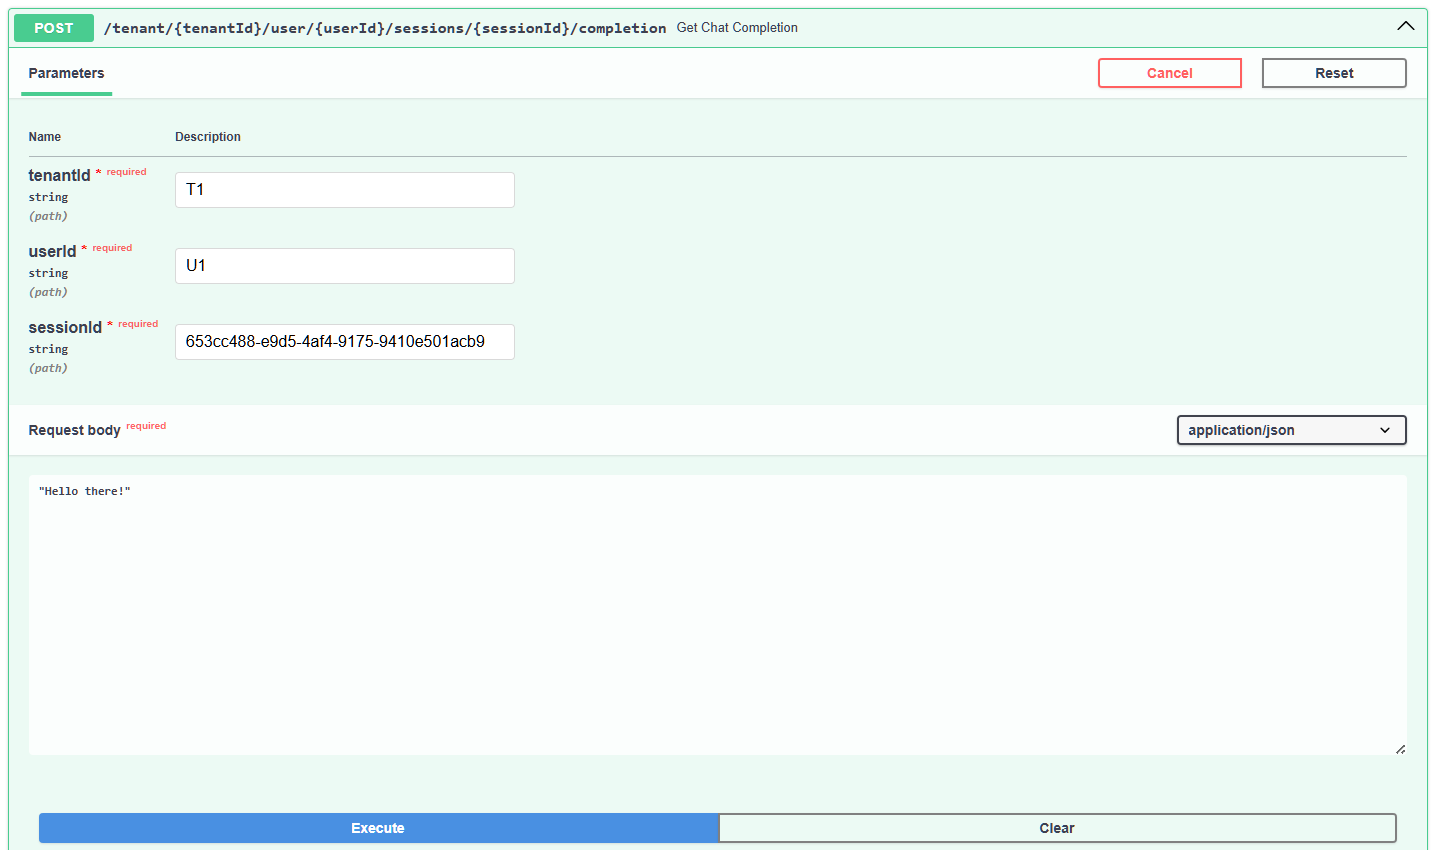
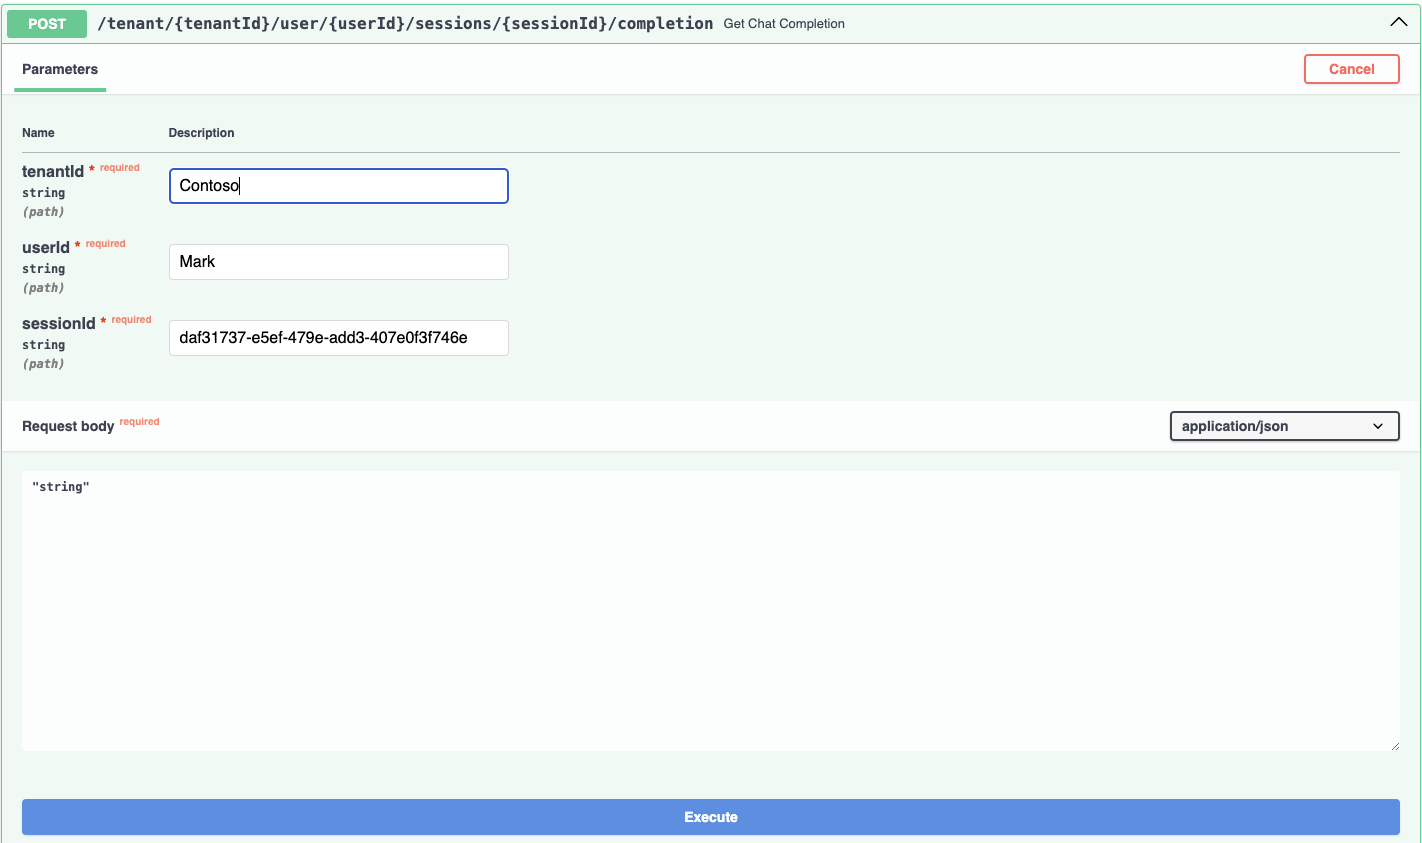
Updating frontend images

diff --git a/python/workshop/Module-04.md b/python/workshop/Module-04.md
@@ -437,13 +437,13 @@ Capture the value of the new sessionId
 
 ```json
 {
-  "id": "653cc488-e9d5-4af4-9175-9410e501acb9",
+  "id": "daf31737-e5ef-479e-add3-407e0f3f746e",
   "type": "session",
-  "sessionId": "653cc488-e9d5-4af4-9175-9410e501acb9",
+  "sessionId": "daf31737-e5ef-479e-add3-407e0f3f746e",
   "tenantId": "Contoso",
   "userId": "Mark",
   "tokensUsed": 0,
-  "name": "Mark Brown",
+  "name": "Mark",
   "messages": []
 }
 ```
@@ -461,7 +461,7 @@ Here you can see the request from Swagger and the response from our agent.
   {
     "id": "1a568dff-43fe-4477-977b-9c21c8bf61f3",
     "type": "ai_response",
-    "sessionId": "653cc488-e9d5-4af4-9175-9410e501acb9",
+    "sessionId": "daf31737-e5ef-479e-add3-407e0f3f746e",
     "tenantId": "Contoso",
     "userId": "Mark",
     "timeStamp": "",
@@ -476,7 +476,7 @@ Here you can see the request from Swagger and the response from our agent.
   {
     "id": "10c6daa8-714d-41d8-b564-99a6c8ffdb5d",
     "type": "ai_response",
-    "sessionId": "653cc488-e9d5-4af4-9175-9410e501acb9",
+    "sessionId": "daf31737-e5ef-479e-add3-407e0f3f746e",
     "tenantId": "Contoso",
     "userId": "Mark",
     "timeStamp": "",
